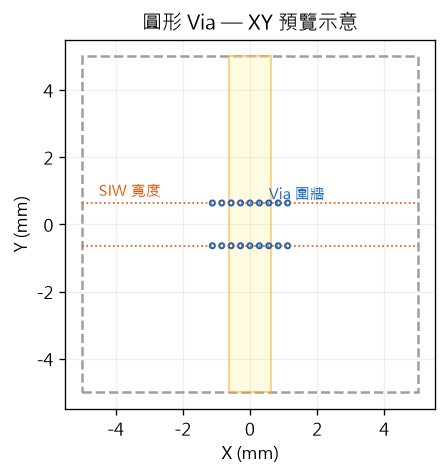
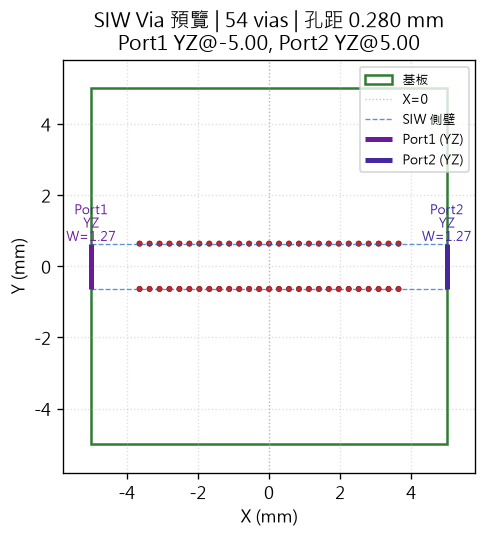
Add auto-generated README screenshots and guide image script.
Capture GUI windows and matplotlib previews into docs/images, and refresh README intro from the script.

Changed region(s): [[0.0874, 0.0, 0.991, 1.0], [0.0291, 0.4135, 0.0583, 0.5612]]

diff --git a/scripts/generate_guide_images.py b/scripts/generate_guide_images.py
@@ -1,0 +1,296 @@
+"""Generate README / USER_GUIDE screenshots and update README intro."""
+
+from __future__ import annotations
+
+import os
+import re
+import sys
+import time
+from pathlib import Path
+
+ROOT = Path(__file__).resolve().parents[1]
+if str(ROOT / "src") not in sys.path:
+    sys.path.insert(0, str(ROOT / "src"))
+
+DOCS_IMAGES = ROOT / "docs" / "images"
+README = ROOT / "README.md"
+MARKER_START = "<!-- AUTO_SCREENSHOTS_START -->"
+MARKER_END = "<!-- AUTO_SCREENSHOTS_END -->"
+
+
+def _ensure_dir() -> None:
+    DOCS_IMAGES.mkdir(parents=True, exist_ok=True)
+
+
+def _save_figure(figure, path: Path, *, dpi: int = 120) -> None:
+    _ensure_dir()
+    figure.savefig(path, dpi=dpi, bbox_inches="tight", facecolor="white", pad_inches=0.08)
+
+
+def _render_circular_preview() -> None:
+    from matplotlib.figure import Figure
+
+    from siw_generator.preview import render_preview
+    from siw_generator.siw_geometry import SIWParams, build_siw_geometry
+    from siw_generator.stackup import StackupParams
+
+    params = SIWParams(
+        substrate_length_mm=10.0,
+        substrate_width_mm=10.0,
+        center_freq_ghz=120.0,
+        via_diameter_mm=0.15,
+        siw_width_mm=1.2745,
+        via_pitch_mm=0.28,
+        via_count_target=54,
+        stackup=StackupParams(substrate_height_mm=0.127, copper_thickness_mm=0.015),
+        material="rt5880",
+    )
+    geometry = build_siw_geometry(params)
+    fig = render_preview(geometry, Figure(figsize=(5.2, 4.6), dpi=120))
+    _save_figure(fig, DOCS_IMAGES / "step2_circular_preview.png")
+
+
+def _render_slot_preview() -> None:
+    from matplotlib.figure import Figure
+
+    from siw_generator.preview import render_preview
+    from siw_generator.slot_geometry import SlotSIWParams, build_slot_siw_geometry
+    from siw_generator.stackup import StackupParams
+
+    params = SlotSIWParams(
+        substrate_length_mm=10.0,
+        substrate_width_mm=10.0,
+        center_freq_ghz=120.0,
+        slot_width_mm=0.15,
+        slot_length_mm=1.0,
+        slot_corner_r_mm=0.015,
+        slot_pitch_mm=1.05,
+        via_count_target=8,
+        siw_width_mm=1.2745,
+        stackup=StackupParams(substrate_height_mm=0.127, copper_thickness_mm=0.015),
+        material="rt5880",
+    )
+    geometry = build_slot_siw_geometry(params)
+    fig = render_preview(geometry, Figure(figsize=(5.2, 4.6), dpi=120))
+    _save_figure(fig, DOCS_IMAGES / "readme_slot_preview.png")
+
+
+def _render_custom_preview() -> None:
+    from matplotlib.figure import Figure
+
+    from siw_generator.custom_geometry import (
+        CustomVia,
+        CustomViaRole,
+        CustomViaType,
+        CustomModuleDefinition,
+    )
+    from siw_generator.custom_io import load_module_file
+    from siw_generator.custom_preview import render_custom_preview
+    from siw_generator.stackup import StackupParams
+
+    module_path = ROOT / "module" / "ctm-randomDot.json"
+    if module_path.is_file():
+        module = load_module_file(module_path)
+    else:
+        module = CustomModuleDefinition(
+            substrate_length_mm=5.0,
+            substrate_width_mm=5.0,
+            stackup=StackupParams(substrate_height_mm=0.127, copper_thickness_mm=0.015),
+            vias=[],
+        )
+    roles = {v.via_role for v in module.vias}
+    if CustomViaRole.TOP_CU not in roles:
+        module.vias.append(CustomVia(1.2, 0.8, CustomViaType.CIRCLE, CustomViaRole.TOP_CU, 0.15, 0.15))
+    if CustomViaRole.BOT_CU not in roles:
+        module.vias.append(CustomVia(-1.2, -0.8, CustomViaType.SQUARE, CustomViaRole.BOT_CU, 0.2, 0.2))
+    fig = render_custom_preview(module, Figure(figsize=(5.2, 4.6), dpi=120))
+    _save_figure(fig, DOCS_IMAGES / "readme_custom_preview.png")
+
+
+def _render_compose_preview() -> None:
+    from matplotlib.figure import Figure
+
+    from siw_generator.combination_io import apply_combination_data, load_combination_file
+    from siw_generator.compose_preview import render_compose_main
+
+    combo_path = ROOT / "combination" / "tripleSIW2.json"
+    if not combo_path.is_file():
+        combo_path = ROOT / "combination" / "tripleSIW.json"
+    if not combo_path.is_file():
+        print("  (skip compose preview: no combination JSON)")
+        return
+    data = load_combination_file(combo_path)
+    layout, *_rest = apply_combination_data(data)
+    fig = render_compose_main(layout, Figure(figsize=(5.6, 5.0), dpi=120))
+    _save_figure(fig, DOCS_IMAGES / "readme_compose_preview.png")
+
+
+def _capture_tk_window(window, path: Path) -> bool:
+    try:
+        from PIL import ImageGrab
+    except ImportError:
+        print("  (skip GUI capture: Pillow not installed)")
+        return False
+
+    window.update_idletasks()
+    window.update()
+    time.sleep(0.35)
+    x = window.winfo_rootx()
+    y = window.winfo_rooty()
+    w = window.winfo_width()
+    h = window.winfo_height()
+    if w <= 1 or h <= 1:
+        return False
+    img = ImageGrab.grab(bbox=(x, y, x + w, y + h))
+    _ensure_dir()
+    img.save(path)
+    return True
+
+
+def _capture_gui_screenshots() -> None:
+    try:
+        import tkinter as tk
+    except ImportError:
+        print("  (skip GUI capture: tkinter unavailable)")
+        return
+
+    from siw_generator.gui import SIWGeneratorApp
+
+    def _fixed_geometry(self) -> None:
+        self.geometry("1280x780+40+20")
+
+    SIWGeneratorApp._maximize_window = _fixed_geometry  # type: ignore[method-assign]
+
+    app = SIWGeneratorApp()
+    app.update_idletasks()
+    app.update()
+    app.after(800, lambda: None)
+    app.update()
+    time.sleep(0.5)
+
+    if _capture_tk_window(app, DOCS_IMAGES / "step1_recipe_bar.png"):
+        print("  saved step1_recipe_bar.png (GUI)")
+
+    tabs = [
+        ("圓形 Via", "readme_gui_circular.png"),
+        ("Custom", "readme_gui_custom.png"),
+        ("組合", "readme_gui_compose.png"),
+    ]
+    notebook = app._notebook
+    for tab_text, filename in tabs:
+        for idx in range(notebook.index("end")):
+            if notebook.tab(idx, "text") == tab_text:
+                notebook.select(idx)
+                app.update_idletasks()
+                app.update()
+                time.sleep(0.45)
+                if _capture_tk_window(app, DOCS_IMAGES / filename):
+                    print(f"  saved {filename} ({tab_text})")
+                break
+
+    try:
+        app.destroy()
+    except tk.TclError:
+        pass
+
+
+def _screenshots_markdown() -> str:
+    from siw_generator import __version__
+
+    def img(name: str, alt: str) -> str:
+        rel = f"docs/images/{name}"
+        if (DOCS_IMAGES / name).is_file():
+            return f"![{alt}]({rel})"
+        return f"<!-- missing: {rel} -->"
+
+    lines = [
+        f"**版本 {__version__}** — 圖形化設計 SIW Via 圍牆、Custom 模組與 M×N 組合版面，"
+        "可輸出 **CST**（DXF / STL / VBA）、**HFSS** VBScript 與參數報告。",
+        "",
+        "| 分頁 | 功能 |",
+        "|------|------|",
+        "| **圓形 Via** | 圓柱 Via 圍牆、Port、XY/YZ 預覽、CST 輸出 |",
+        "| **圓角矩形 Slot Via** | 跑道形 Slot 孔 SIW 設計 |",
+        "| **Custom** | 滑鼠放置圓/方/Slot 孔；貫孔 / top金屬 / bot金屬；模組存於 `module/` |",
+        "| **組合** | 平鋪模組、填補、Port、組合級 CST 套件 |",
+        "| **CST VBA / HFSS** | 預覽與複製模擬巨集 |",
+        "",
+        "### 主視窗 — Recipe 與分頁",
+        "",
+        img("step1_recipe_bar.png", "主視窗 Recipe 列與分頁"),
+        "",
+        "頂部 **Recipe** 列可儲存／讀取全部參數；分頁切換圓形、Slot、Custom、組合與模擬輸出。",
+        "",
+        "### 圓形 Via — XY 預覽",
+        "",
+        img("step2_circular_preview.png", "圓形 Via XY 預覽"),
+        "",
+        "依頻率、孔徑、孔距與 SIW 寬度自動排列圓柱 Via，並顯示 Port 位置。",
+        "",
+        "### 圓角矩形 Slot Via",
+        "",
+        img("readme_slot_preview.png", "Slot Via XY 預覽"),
+        "",
+        "圓角矩形 Slot 孔沿 X 排列，適用於 Slot 型 SIW 側壁。",
+        "",
+        "### Custom Via 模組",
+        "",
+        img("readme_custom_preview.png", "Custom Via 預覽"),
+        "",
+        "自由放置 Via；**貫孔**（紅）、**top金屬孔**（淺綠）、**bot金屬孔**（粉紅）可區分銅層挖孔。",
+        "",
+        "### 組合版面",
+        "",
+        img("readme_compose_preview.png", "組合 M×N 預覽"),
+        "",
+        "將 `module/` 模組平鋪至網格，支援旋轉、鏡射、填補與 Port 定義。",
+        "",
+        "> 截圖由 `python scripts/generate_guide_images.py` 自動產生。",
+        "",
+    ]
+    return "\n".join(lines)
+
+
+def _update_readme() -> None:
+    content = README.read_text(encoding="utf-8")
+    block = f"{MARKER_START}\n{_screenshots_markdown()}{MARKER_END}"
+    pattern = re.compile(
+        re.escape(MARKER_START) + r".*?" + re.escape(MARKER_END),
+        re.DOTALL,
+    )
+    if pattern.search(content):
+        content = pattern.sub(block, content)
+    else:
+        # Insert after first heading block
+        insert_at = content.find("\n## ")
+        if insert_at == -1:
+            content = content.rstrip() + "\n\n" + block + "\n"
+        else:
+            content = content[:insert_at] + "\n\n" + block + content[insert_at:]
+    README.write_text(content, encoding="utf-8")
+    print(f"Updated {README.relative_to(ROOT)}")
+
+
+def main() -> None:
+    os.environ.setdefault("MPLBACKEND", "Agg")
+    os.environ.setdefault("OPENBLAS_NUM_THREADS", "1")
+    print("Generating matplotlib previews...")
+    _render_circular_preview()
+    print("  step2_circular_preview.png")
+    _render_slot_preview()
+    print("  readme_slot_preview.png")
+    _render_custom_preview()
+    print("  readme_custom_preview.png")
+    _render_compose_preview()
+    print("  readme_compose_preview.png")
+
+    print("Capturing GUI screenshots...")
+    _capture_gui_screenshots()
+
+    print("Updating README...")
+    _update_readme()
+    print("Done.")
+
+
+if __name__ == "__main__":
+    main()

diff --git a/README.md b/README.md
@@ -1,6 +1,50 @@
 # SIW Generator
 
-Python 專案，用於產生 SIW 相關輸出。
+Python GUI 專案，用於設計 SIW Via 圍牆、Custom 模組與組合版面，並輸出 CST / HFSS 模擬檔案。
+
+<!-- AUTO_SCREENSHOTS_START -->
+**版本 0.9.0beta** — 圖形化設計 SIW Via 圍牆、Custom 模組與 M×N 組合版面，可輸出 **CST**（DXF / STL / VBA）、**HFSS** VBScript 與參數報告。
+
+| 分頁 | 功能 |
+|------|------|
+| **圓形 Via** | 圓柱 Via 圍牆、Port、XY/YZ 預覽、CST 輸出 |
+| **圓角矩形 Slot Via** | 跑道形 Slot 孔 SIW 設計 |
+| **Custom** | 滑鼠放置圓/方/Slot 孔；貫孔 / top金屬 / bot金屬；模組存於 `module/` |
+| **組合** | 平鋪模組、填補、Port、組合級 CST 套件 |
+| **CST VBA / HFSS** | 預覽與複製模擬巨集 |
+
+### 主視窗 — Recipe 與分頁
+
+![主視窗 Recipe 列與分頁](docs/images/step1_recipe_bar.png)
+
+頂部 **Recipe** 列可儲存／讀取全部參數；分頁切換圓形、Slot、Custom、組合與模擬輸出。
+
+### 圓形 Via — XY 預覽
+
+![圓形 Via XY 預覽](docs/images/step2_circular_preview.png)
+
+依頻率、孔徑、孔距與 SIW 寬度自動排列圓柱 Via，並顯示 Port 位置。
+
+### 圓角矩形 Slot Via
+
+![Slot Via XY 預覽](docs/images/readme_slot_preview.png)
+
+圓角矩形 Slot 孔沿 X 排列，適用於 Slot 型 SIW 側壁。
+
+### Custom Via 模組
+
+![Custom Via 預覽](docs/images/readme_custom_preview.png)
+
+自由放置 Via；**貫孔**（紅）、**top金屬孔**（淺綠）、**bot金屬孔**（粉紅）可區分銅層挖孔。
+
+### 組合版面
+
+![組合 M×N 預覽](docs/images/readme_compose_preview.png)
+
+將 `module/` 模組平鋪至網格，支援旋轉、鏡射、填補與 Port 定義。
+
+> 截圖由 `python scripts/generate_guide_images.py` 自動產生。
+<!-- AUTO_SCREENSHOTS_END -->
 
 ## 環境
 
@@ -19,6 +63,7 @@ pip install -e .
 ## 執行
 
 ```powershell
+python -m siw_generator --gui
 python -m siw_generator --name demo
 python -m siw_generator --name demo --output output\result.json
 ```
@@ -26,22 +71,33 @@ python -m siw_generator --name demo --output output\result.json
 或使用安裝後的指令：
 
 ```powershell
+siw-generator-gui
 siw-generator --name demo
 ```
+
+## 更新 README 截圖
+
+```powershell
+python scripts/generate_guide_images.py
+```
+
+會擷取主視窗畫面、各分頁預覽圖，並寫入本檔 `<!-- AUTO_SCREENSHOTS_START -->` 區塊。
 
 ## 專案結構
 
 ```
 siw-generator/
-├── src/siw_generator/
-│   ├── cli.py          # 命令列介面
-│   ├── generator.py    # 核心產生邏輯
-│   └── __main__.py
-├── .vscode/settings.json
+├── src/siw_generator/   # 核心程式與 GUI
+├── docs/                # 使用說明與截圖
+├── module/              # Custom / RSIW / SSIW 模組 JSON
+├── combination/         # 組合版面存檔
+├── recipe/              # Recipe 設定檔
+├── scripts/             # 建置與截圖腳本
 ├── pyproject.toml
 └── requirements.txt
 ```
 
-## 下一步
+## 說明文件
 
-在 `src/siw_generator/generator.py` 實作你的 SIW 產生規則與輸出格式。
+- [使用說明](docs/USER_GUIDE.md)
+- [開發紀錄](docs/AGENT_HISTORY.md)